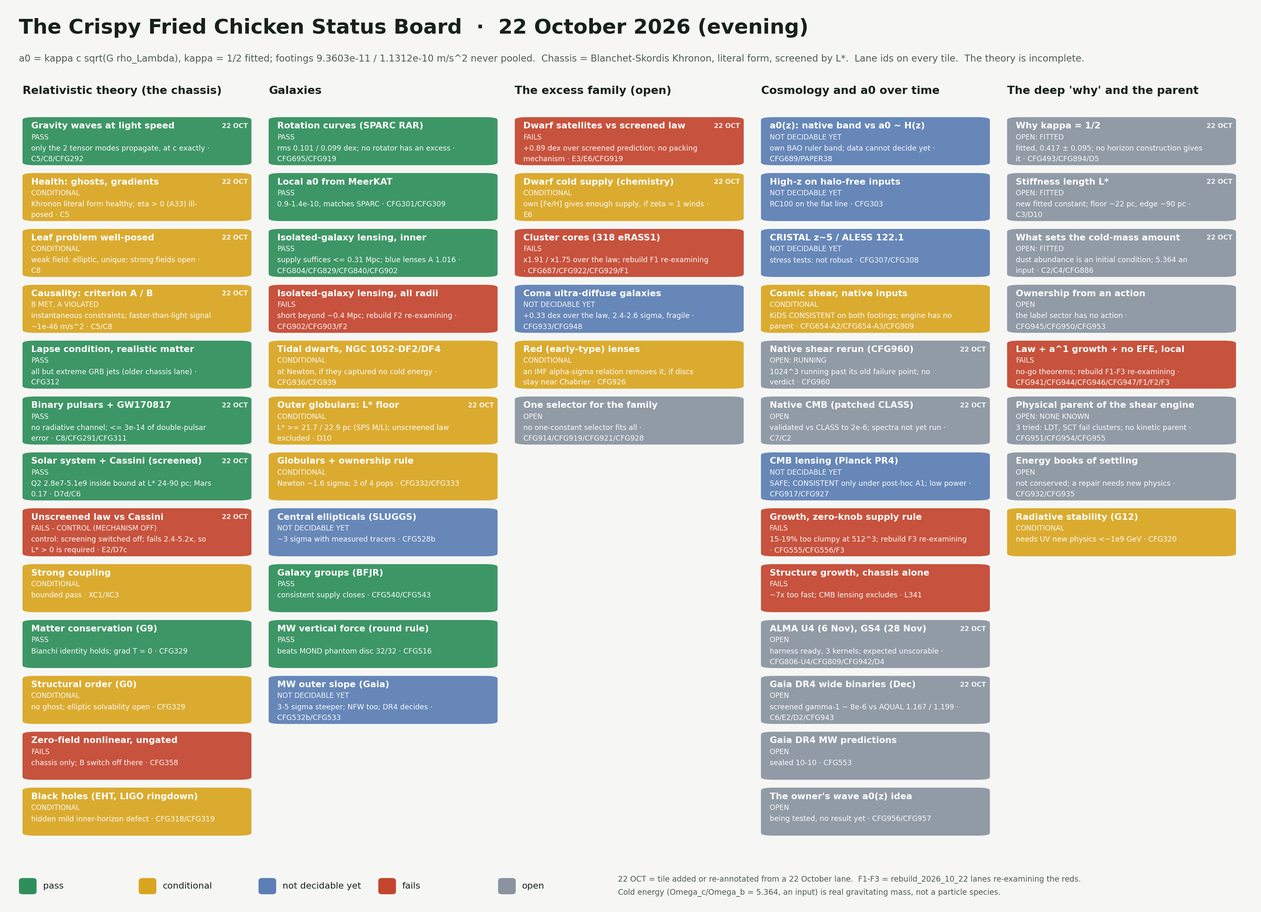
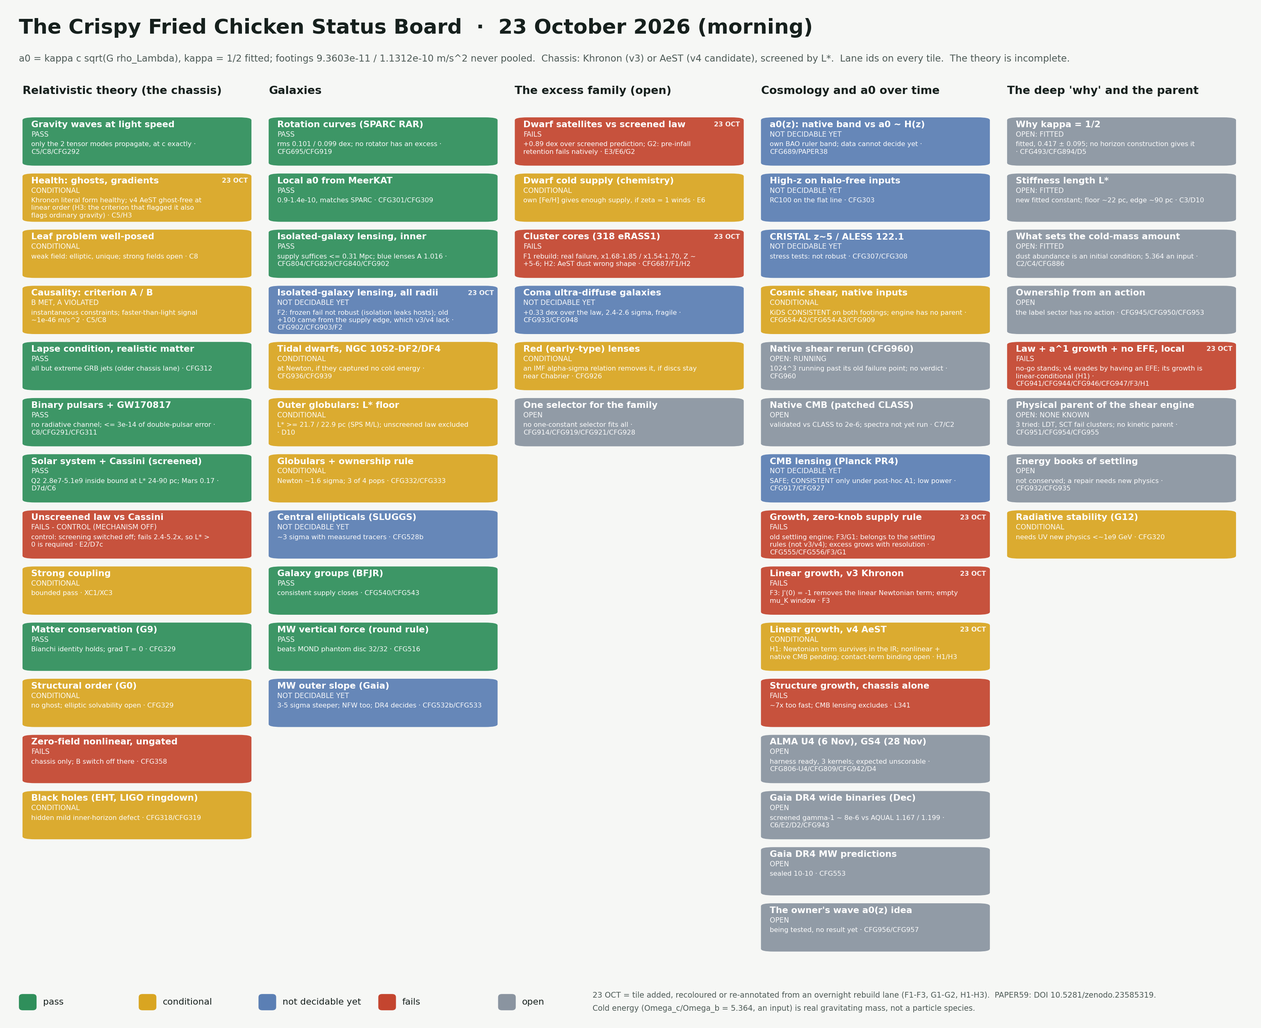
Status board redrawn to 23 October (morning) from the overnight rebuild lanes. One recolour: isolated-galaxy lensing, all radii FAIL -> not decidable yet (F2; generator's kept-red list and new RECOLOURS table record F2 as the evidence). Re-annotated, colour kept: cluster cores red (F1 real failure, 

diff --git a/explainers/make_status_board.py b/explainers/make_status_board.py
@@ -1,14 +1,16 @@
 #!/usr/bin/env python3
-"""The Crispy Fried Chicken status board, 22 October 2026 (evening). Plot only.
+"""The Crispy Fried Chicken status board, 23 October 2026 (morning). Plot only.
 
-Every tile restates a verdict recorded in campaign_fresh_gravity/LEDGER.md, THEORY_CANONICAL_2026-10-18.md, or a
-committed lane of 22 October (doors_push_2026_10_22/, covariant_push_2026_10_22/, summarised in
-covariant_push_2026_10_22/THEORY_V3_DRAFT.md). Layout and colours follow the 21 October board
-(campaign_fresh_gravity/closure_map/status_picture_2026_10_21.py, left unedited).
+Every tile restates a verdict recorded in campaign_fresh_gravity/LEDGER.md, THEORY_CANONICAL_2026-10-18.md, a committed
+lane of 22 October (doors_push_2026_10_22/, covariant_push_2026_10_22/, summarised in
+covariant_push_2026_10_22/THEORY_V3_DRAFT.md), or a committed overnight rebuild lane (rebuild_2026_10_22/: F1, F2, F3,
+G1, G2, H1, H2, H3; the v4 candidate is THEORY_V3_DRAFT.md section 1b). Layout and colours follow the 22 October board
+(kept as explainers/img/status_board_2026-10-22.png).
 
-Re-scoring rule for this board: a tile changes colour only if a committed 22 October lane changes it; nothing turns
-green without a committed lane that passes it; unresolved reds stay red. Each tile records its 21 October colour
-(`prev`, None for a tile new on this board) so the checks below can enforce that rule.
+Re-scoring rule for this board: a tile changes colour only if a committed overnight lane changes it AND the recolour is
+listed in RECOLOURS with that lane as evidence; nothing turns green without a committed lane that passes it; unresolved
+reds stay red. Each tile records its 22 October colour (`prev`, None for a tile new on this board) so the checks below
+can enforce that rule.
 
 kappa = 1/2 is FITTED; footings never pooled; cold energy is real gravitating mass, not a particle species;
 the theory is not closed.
@@ -36,28 +38,29 @@ COL = {"PASS": "#2f8f5b", "COND": "#d9a521", "OPEN": "#8a94a0", "FAIL": "#c4452f
 LAB = {"PASS": "pass", "COND": "conditional", "OPEN": "open", "FAIL": "fails", "UNDEC": "not decidable yet"}
 COLUMNS = ["Relativistic theory (the chassis)", "Galaxies", "The excess family (open)",
            "Cosmology and a0 over time", "The deep 'why' and the parent"]
-# Lane ids committed on 22 October (doors push D*/E*, covariant push C*, CFG960 amendment A6, rebuild brief F*).
-LANE_22 = re.compile(r"^(C[1-8]|D\d+[a-d]?|E[1-6]|CFG960|F[1-4])$")
+# Lane ids committed overnight 22-23 October (rebuild_2026_10_22/).
+LANE_NEW = re.compile(r"^(F[1-3]|G[12]|H[1-3])$")
 
 
-def T(col, name, st, note, lanes, prev, lab=None, new22=False):
-    """One tile: column index, label, colour (status), note, evidence lane ids, 21 October colour."""
-    return dict(col=col, name=name, st=st, note=note, lanes=list(lanes), prev=prev, lab=lab, new22=new22)
+def T(col, name, st, note, lanes, prev, lab=None, new=False):
+    """One tile: column index, label, colour (status), note, evidence lane ids, 22 October colour, 23 OCT flag."""
+    return dict(col=col, name=name, st=st, note=note, lanes=list(lanes), prev=prev, lab=lab, new=new)
 
 
 TILES = [
-    # ---- column 0: the chassis, now the Blanchet-Skordis Khronon theory in its literal form (C4) ----
-    T(0, "Gravity waves at light speed", "PASS", "only the 2 tensor modes propagate, at c exactly", ["C5", "C8", "CFG292"], "PASS", new22=True),
-    T(0, "Health: ghosts, gradients", "COND", "Khronon literal form healthy; eta > 0 (A33) ill-posed", ["C5"], "COND", new22=True),
-    T(0, "Leaf problem well-posed", "COND", "weak field: elliptic, unique; strong fields open", ["C8"], "COND", new22=True),
-    T(0, "Causality: criterion A / B", "COND", "instantaneous constraints; faster-than-light signal ~1e-46 m/s^2", ["C5", "C8"], None,
-      lab="B met, A violated", new22=True),
+    # ---- column 0: the chassis (Khronon v3; AeST v4 candidate, THEORY_V3_DRAFT section 1b) ----
+    T(0, "Gravity waves at light speed", "PASS", "only the 2 tensor modes propagate, at c exactly", ["C5", "C8", "CFG292"], "PASS"),
+    T(0, "Health: ghosts, gradients", "COND",
+      "Khronon literal form healthy; v4 AeST ghost-free at linear order (H3: the criterion that flagged it also flags "
+      "ordinary gravity)", ["C5", "H3"], "COND", new=True),
+    T(0, "Leaf problem well-posed", "COND", "weak field: elliptic, unique; strong fields open", ["C8"], "COND"),
+    T(0, "Causality: criterion A / B", "COND", "instantaneous constraints; faster-than-light signal ~1e-46 m/s^2", ["C5", "C8"],
+      "COND", lab="B met, A violated"),
     T(0, "Lapse condition, realistic matter", "PASS", "all but extreme GRB jets (older chassis lane)", ["CFG312"], "PASS"),
-    T(0, "Binary pulsars + GW170817", "PASS", "no radiative channel; <= 3e-14 of double-pulsar error", ["C8", "CFG291", "CFG311"], "PASS", new22=True),
-    T(0, "Solar system + Cassini (screened)", "PASS", "Q2 2.8e7-5.1e9 inside bound at L* 24-90 pc; Mars 0.17", ["D7d", "C6"], "PASS",
-      new22=True),
+    T(0, "Binary pulsars + GW170817", "PASS", "no radiative channel; <= 3e-14 of double-pulsar error", ["C8", "CFG291", "CFG311"], "PASS"),
+    T(0, "Solar system + Cassini (screened)", "PASS", "Q2 2.8e7-5.1e9 inside bound at L* 24-90 pc; Mars 0.17", ["D7d", "C6"], "PASS"),
     T(0, "Unscreened law vs Cassini", "FAIL", "control: screening switched off; fails 2.4-5.2x, so L* > 0 is required",
-      ["E2", "D7c"], None, lab="fails - control (mechanism off)", new22=True),
+      ["E2", "D7c"], "FAIL", lab="fails - control (mechanism off)"),
     T(0, "Strong coupling", "COND", "bounded pass", ["XC1", "XC3"], "COND"),
     T(0, "Matter conservation (G9)", "PASS", "Bianchi identity holds; grad T = 0", ["CFG329"], "PASS"),
     T(0, "Structural order (G0)", "COND", "no ghost; elliptic solvability open", ["CFG329"], "COND"),
@@ -67,19 +70,23 @@ TILES = [
     T(1, "Rotation curves (SPARC RAR)", "PASS", "rms 0.101 / 0.099 dex; no rotator has an excess", ["CFG695", "CFG919"], "PASS"),
     T(1, "Local a0 from MeerKAT", "PASS", "0.9-1.4e-10, matches SPARC", ["CFG301", "CFG309"], "PASS"),
     T(1, "Isolated-galaxy lensing, inner", "PASS", "supply suffices <= 0.31 Mpc; blue lenses A 1.016", ["CFG804", "CFG829", "CFG840", "CFG902"], "PASS"),
-    T(1, "Isolated-galaxy lensing, all radii", "FAIL", "short beyond ~0.4 Mpc; rebuild F2 re-examining", ["CFG902", "CFG903", "F2"], "FAIL"),
+    T(1, "Isolated-galaxy lensing, all radii", "UNDEC",
+      "F2: frozen fail not robust (isolation leaks hosts); old +100 came from the supply edge, which v3/v4 lack",
+      ["CFG902", "CFG903", "F2"], "FAIL", new=True),
     T(1, "Tidal dwarfs, NGC 1052-DF2/DF4", "COND", "at Newton, if they captured no cold energy", ["CFG936", "CFG939"], "COND"),
-    T(1, "Outer globulars: L* floor", "COND", "L* >= 21.7 / 22.9 pc (SPS M/L); unscreened law excluded", ["D10"], "COND", new22=True),
+    T(1, "Outer globulars: L* floor", "COND", "L* >= 21.7 / 22.9 pc (SPS M/L); unscreened law excluded", ["D10"], "COND"),
     T(1, "Globulars + ownership rule", "COND", "Newton ~1.6 sigma; 3 of 4 pops", ["CFG332", "CFG333"], "COND"),
     T(1, "Central ellipticals (SLUGGS)", "UNDEC", "~3 sigma with measured tracers", ["CFG528b"], "UNDEC"),
     T(1, "Galaxy groups (BFJR)", "PASS", "consistent supply closes", ["CFG540", "CFG543"], "PASS"),
     T(1, "MW vertical force (round rule)", "PASS", "beats MOND phantom disc 32/32", ["CFG516"], "PASS"),
     T(1, "MW outer slope (Gaia)", "UNDEC", "3-5 sigma steeper; NFW too; DR4 decides", ["CFG532b", "CFG533"], "UNDEC"),
     # ---- column 2: the excess family ----
-    T(2, "Dwarf satellites vs screened law", "FAIL", "+0.89 dex over screened prediction; no packing mechanism",
-      ["E3", "E6", "CFG919"], "FAIL", new22=True),
-    T(2, "Dwarf cold supply (chemistry)", "COND", "own [Fe/H] gives enough supply, if zeta = 1 winds", ["E6"], None, new22=True),
-    T(2, "Cluster cores (318 eRASS1)", "FAIL", "x1.91 / x1.75 over the law; rebuild F1 re-examining", ["CFG687", "CFG922", "CFG929", "F1"], "FAIL"),
+    T(2, "Dwarf satellites vs screened law", "FAIL",
+      "+0.89 dex over screened prediction; G2: pre-infall retention fails natively", ["E3", "E6", "G2"], "FAIL", new=True),
+    T(2, "Dwarf cold supply (chemistry)", "COND", "own [Fe/H] gives enough supply, if zeta = 1 winds", ["E6"], "COND"),
+    T(2, "Cluster cores (318 eRASS1)", "FAIL",
+      "F1 rebuild: real failure, x1.68-1.85 / x1.54-1.70, Z ~ +5-6; H2: AeST dust wrong shape", ["CFG687", "F1", "H2"],
+      "FAIL", new=True),
     T(2, "Coma ultra-diffuse galaxies", "UNDEC", "+0.33 dex over the law, 2.4-2.6 sigma, fragile", ["CFG933", "CFG948"], "UNDEC"),
     T(2, "Red (early-type) lenses", "COND", "an IMF alpha-sigma relation removes it, if discs stay near Chabrier",
       ["CFG926"], "COND"),
@@ -90,28 +97,35 @@ TILES = [
     T(3, "CRISTAL z~5 / ALESS 122.1", "UNDEC", "stress tests: not robust", ["CFG307", "CFG308"], "UNDEC"),
     T(3, "Cosmic shear, native inputs", "COND", "KiDS CONSISTENT on both footings; engine has no parent",
       ["CFG654-A2", "CFG654-A3", "CFG909"], "COND"),
-    T(3, "Native shear rerun (CFG960)", "OPEN", "1024^3 running past its old failure point; no verdict", ["CFG960"], None,
-      lab="open: running", new22=True),
-    T(3, "Native CMB (patched CLASS)", "OPEN", "validated vs CLASS to 2e-6; spectra not yet run", ["C7", "C2"], None, new22=True),
+    T(3, "Native shear rerun (CFG960)", "OPEN", "1024^3 running past its old failure point; no verdict", ["CFG960"], "OPEN",
+      lab="open: running"),
+    T(3, "Native CMB (patched CLASS)", "OPEN", "validated vs CLASS to 2e-6; spectra not yet run", ["C7", "C2"], "OPEN"),
     T(3, "CMB lensing (Planck PR4)", "UNDEC", "SAFE; CONSISTENT only under post-hoc A1; low power", ["CFG917", "CFG927"], "UNDEC"),
-    T(3, "Growth, zero-knob supply rule", "FAIL", "15-19% too clumpy at 512^3; rebuild F3 re-examining", ["CFG555", "CFG556", "F3"], "FAIL"),
+    T(3, "Growth, zero-knob supply rule", "FAIL",
+      "old settling engine; F3/G1: belongs to the settling rules (not v3/v4); excess grows with resolution",
+      ["CFG555", "CFG556", "F3", "G1"], "FAIL", new=True),
+    T(3, "Linear growth, v3 Khronon", "FAIL", "F3: J'(0) = -1 removes the linear Newtonian term; empty mu_K window",
+      ["F3"], None, new=True),
+    T(3, "Linear growth, v4 AeST", "COND",
+      "H1: Newtonian term survives in the IR; nonlinear + native CMB pending; contact-term binding open",
+      ["H1", "H3"], None, new=True),
     T(3, "Structure growth, chassis alone", "FAIL", "~7x too fast; CMB lensing excludes", ["L341"], "FAIL"),
     T(3, "ALMA U4 (6 Nov), GS4 (28 Nov)", "OPEN", "harness ready, 3 kernels; expected unscorable", ["CFG806-U4", "CFG809", "CFG942", "D4"],
-      "OPEN", new22=True),
-    T(3, "Gaia DR4 wide binaries (Dec)", "OPEN", "screened gamma-1 ~ 8e-6 vs AQUAL 1.167 / 1.199", ["C6", "E2", "D2", "CFG943"], "OPEN",
-      new22=True),
+      "OPEN"),
+    T(3, "Gaia DR4 wide binaries (Dec)", "OPEN", "screened gamma-1 ~ 8e-6 vs AQUAL 1.167 / 1.199", ["C6", "E2", "D2", "CFG943"], "OPEN"),
     T(3, "Gaia DR4 MW predictions", "OPEN", "sealed 10-10", ["CFG553"], "OPEN"),
     T(3, "The owner's wave a0(z) idea", "OPEN", "being tested, no result yet", ["CFG956", "CFG957"], "OPEN"),
     # ---- column 4: the deep 'why' and the parent ----
     T(4, "Why kappa = 1/2", "OPEN", "fitted, 0.417 ± 0.095; no horizon construction gives it", ["CFG493", "CFG894", "D5"], "OPEN",
-      lab="open: fitted", new22=True),
-    T(4, "Stiffness length L*", "OPEN", "new fitted constant; floor ~22 pc, edge ~90 pc", ["C3", "D10"], None,
-      lab="open: fitted", new22=True),
+      lab="open: fitted"),
+    T(4, "Stiffness length L*", "OPEN", "new fitted constant; floor ~22 pc, edge ~90 pc", ["C3", "D10"], "OPEN",
+      lab="open: fitted"),
     T(4, "What sets the cold-mass amount", "OPEN", "dust abundance is an initial condition; 5.364 an input",
-      ["C2", "C4", "CFG886"], "OPEN", lab="open: fitted", new22=True),
+      ["C2", "C4", "CFG886"], "OPEN", lab="open: fitted"),
     T(4, "Ownership from an action", "OPEN", "the label sector has no action", ["CFG945", "CFG950", "CFG953"], "OPEN"),
-    T(4, "Law + a^1 growth + no EFE, local", "FAIL", "no-go theorems; rebuild F1-F3 re-examining",
-      ["CFG941", "CFG944", "CFG946", "CFG947", "F1", "F2", "F3"], "FAIL"),
+    T(4, "Law + a^1 growth + no EFE, local", "FAIL",
+      "no-go stands; v4 evades by having an EFE; its growth is linear-conditional (H1)",
+      ["CFG941", "CFG944", "CFG946", "CFG947", "F3", "H1"], "FAIL", new=True),
     T(4, "Physical parent of the shear engine", "OPEN", "3 tried: LDT, SCT fail clusters; no kinetic parent",
       ["CFG951", "CFG954", "CFG955"], "OPEN", lab="open: none known"),
     T(4, "Energy books of settling", "OPEN", "not conserved; a repair needs new physics", ["CFG932", "CFG935"], "OPEN"),
@@ -119,9 +133,15 @@ TILES = [
 ]
 
 # Reds that must stay red until a committed rebuild lane says otherwise.
-MUST_STAY_RED = ["Cluster cores (318 eRASS1)", "Isolated-galaxy lensing, all radii", "Growth, zero-knob supply rule",
-                 "Law + a^1 growth + no EFE, local"]
-WRAP = 52  # characters per note line at fontsize 8.4
+# 23 October: "Isolated-galaxy lensing, all radii" was removed from this list because rebuild lane F2
+# (rebuild_2026_10_22/F2_outer_lensing/) found its frozen REAL FAILURE not robust (UNDECIDABLE: the old +100 came from
+# the supply edge, which v3/v4 lack, and the strict isolated sample leaks hosts). It is recoloured to UNDEC via RECOLOURS.
+MUST_STAY_RED = ["Cluster cores (318 eRASS1)", "Growth, zero-knob supply rule", "Law + a^1 growth + no EFE, local",
+                 "Dwarf satellites vs screened law", "Linear growth, v3 Khronon"]
+# Every permitted recolour on this board: tile -> (22 October colour, new colour, evidence lane that justifies it).
+RECOLOURS = {"Isolated-galaxy lensing, all radii": ("FAIL", "UNDEC", "F2")}
+WRAP = 56     # characters per note line at fontsize 7.8
+MAXL = 3      # note lines per tile
 
 
 def lane_text(t):
@@ -136,19 +156,28 @@ def check(tiles):
         if t["st"] not in COL:
             errs.append(f"bad colour {t['st']}: {t['name']}")
         changed = t["prev"] is not None and t["st"] != t["prev"]
-        if changed and not any(LANE_22.match(x) for x in t["lanes"]):
-            errs.append(f"colour changed without a 22 October lane: {t['name']}")
+        if changed:
+            if not any(LANE_NEW.match(x) for x in t["lanes"]):
+                errs.append(f"colour changed without an overnight lane: {t['name']}")
+            rc = RECOLOURS.get(t["name"])
+            if rc is None or rc[:2] != (t["prev"], t["st"]) or rc[2] not in t["lanes"]:
+                errs.append(f"recolour not listed in RECOLOURS with its evidence lane: {t['name']}")
+            if not t["new"]:
+                errs.append(f"recoloured tile not flagged 23 OCT: {t['name']}")
         if t["st"] == "PASS" and t["prev"] != "PASS":
             errs.append(f"turned green: {t['name']} (needs a committed passing lane; refused on this board)")
-        if t["prev"] is None and not t["new22"]:
-            errs.append(f"new tile not flagged as 22 October: {t['name']}")
+        if t["prev"] is None and not t["new"]:
+            errs.append(f"new tile not flagged as 23 October: {t['name']}")
         lines = textwrap.wrap(f"{t['note']} · {lane_text(t)}", WRAP)
-        if len(lines) > 2:
+        if len(lines) > MAXL:
             errs.append(f"note too long ({len(lines)} lines): {t['name']}")
     names = {t["name"]: t for t in tiles}
     for n in MUST_STAY_RED:
         if n not in names or names[n]["st"] != "FAIL":
             errs.append(f"must stay red: {n}")
+    for n in RECOLOURS:
+        if n not in names or names[n]["st"] != RECOLOURS[n][1]:
+            errs.append(f"listed recolour not applied: {n}")
     if len(names) != len(tiles):
         errs.append("duplicate tile names")
     return errs
@@ -157,16 +186,16 @@ def check(tiles):
 def draw(tiles, out):
     ncol = len(COLUMNS)
     nmax = max(sum(1 for t in tiles if t["col"] == c) for c in range(ncol))
-    W, H = 20.5, 2.6 + 0.94 * nmax                   # inches; each tile ~0.94 in tall as on the 21 October board
+    W, H = 20.5, 2.6 + 0.94 * nmax                   # inches; each tile ~0.94 in tall as on the 22 October board
     fig = plt.figure(figsize=(W, H), dpi=150)
     fig.patch.set_facecolor("#f6f7f5")
     top_in, bot_in = 1.25, 0.95                      # header and legend bands, inches
     ax = fig.add_axes([0.012, bot_in / H, 0.976, 1 - (top_in + bot_in) / H])
     ax.set_xlim(0, ncol); ax.set_ylim(-0.25, nmax + 0.65); ax.axis("off")
-    fig.text(0.015, 1 - 0.55 / H, "The Crispy Fried Chicken Status Board  ·  22 October 2026 (evening)", fontsize=24,
+    fig.text(0.015, 1 - 0.55 / H, "The Crispy Fried Chicken Status Board  ·  23 October 2026 (morning)", fontsize=24,
              fontweight="bold", color="#16201d")
     fig.text(0.015, 1 - 1.0 / H, "a0 = kappa c sqrt(G rho_Lambda), kappa = 1/2 fitted; footings 9.3603e-11 / 1.1312e-10 m/s^2 never "
-             "pooled.  Chassis = Blanchet-Skordis Khronon, literal form, screened by L*.  Lane ids on every tile.  "
+             "pooled.  Chassis: Khronon (v3) or AeST (v4 candidate), screened by L*.  Lane ids on every tile.  "
              "The theory is incomplete.", fontsize=11.0, color="#4d5a56")
     for c, title in enumerate(COLUMNS):
         ax.text(c + 0.03, nmax + 0.4, title, fontsize=13, fontweight="bold", color="#16201d", va="center")
@@ -174,14 +203,14 @@ def draw(tiles, out):
             y = nmax - 0.5 - k
             ax.add_patch(FancyBboxPatch((c + 0.03, y - 0.43), 0.93, 0.86, boxstyle="round,pad=0.0,rounding_size=0.05",
                                         facecolor=COL[t["st"]], edgecolor="none", alpha=0.93))
-            ax.text(c + 0.065, y + 0.27, t["name"], fontsize=10.4, fontweight="bold", color="white", va="center")
+            ax.text(c + 0.065, y + 0.30, t["name"], fontsize=10.4, fontweight="bold", color="white", va="center")
             lab = (t["lab"] or LAB[t["st"]]).upper()
-            ax.text(c + 0.065, y + 0.07, lab, fontsize=8.2, color="white", va="center", alpha=0.95)
-            if t["new22"]:
-                ax.text(c + 0.945, y + 0.27, "22 OCT", fontsize=7.6, fontweight="bold", color="white", va="center",
+            ax.text(c + 0.065, y + 0.125, lab, fontsize=8.2, color="white", va="center", alpha=0.95)
+            if t["new"]:
+                ax.text(c + 0.945, y + 0.30, "23 OCT", fontsize=7.6, fontweight="bold", color="white", va="center",
                         ha="right", alpha=0.9)
             for j, ln in enumerate(textwrap.wrap(f"{t['note']} · {lane_text(t)}", WRAP)):
-                ax.text(c + 0.065, y - 0.13 - 0.19 * j, ln, fontsize=8.4, color="white", va="center", alpha=0.97)
+                ax.text(c + 0.065, y - 0.05 - 0.135 * j, ln, fontsize=7.8, color="white", va="center", alpha=0.97)
     lx, ly = 0.015, 0.42 / H
     for st in ("PASS", "COND", "UNDEC", "FAIL", "OPEN"):
         fig.patches.append(FancyBboxPatch((lx, ly - 0.01 * 13.2 / H), 0.014, 0.02 * 13.2 / H,
@@ -189,9 +218,10 @@ def draw(tiles, out):
                                           transform=fig.transFigure, figure=fig))
         fig.text(lx + 0.019, ly, LAB[st], fontsize=10.5, va="center", color="#16201d")
         lx += 0.095
-    fig.text(0.49, ly + 0.11 / H, "22 OCT = tile added or re-annotated from a 22 October lane.  F1-F3 = rebuild_2026_10_22 "
-             "lanes re-examining the reds.", fontsize=9.0, va="center", color="#4d5a56")
-    fig.text(0.49, ly - 0.11 / H, "Cold energy (Omega_c/Omega_b = 5.364, an input) is real gravitating mass, not a particle species.",
+    fig.text(0.47, ly + 0.11 / H, "23 OCT = tile added, recoloured or re-annotated from an overnight rebuild lane "
+             "(F1-F3, G1-G2, H1-H3).  PAPER59: DOI 10.5281/zenodo.23585319.", fontsize=9.0,
+             va="center", color="#4d5a56")
+    fig.text(0.47, ly - 0.11 / H, "Cold energy (Omega_c/Omega_b = 5.364, an input) is real gravitating mass, not a particle species.",
              fontsize=9.0, va="center", color="#4d5a56")
     fig.savefig(out, dpi=150, facecolor=fig.get_facecolor())
     plt.close(fig)
@@ -203,8 +233,8 @@ def main():
     if mutate:
         tiles[7]["lanes"] = []                       # strip one tile's evidence lane: the checks must fail
     errs = check(tiles)
-    print(f"{len(tiles)} tiles; {sum(t['new22'] for t in tiles)} from 22 October lanes; "
-          f"{sum(1 for t in tiles if t['prev'] is not None and t['st'] != t['prev'])} recoloured vs 21 October")
+    print(f"{len(tiles)} tiles; {sum(t['new'] for t in tiles)} added or re-annotated from overnight lanes; "
+          f"{sum(1 for t in tiles if t['prev'] is not None and t['st'] != t['prev'])} recoloured vs 22 October")
     if errs:
         for e in errs:
             print("CHECK FAIL:", e)

diff --git a/explainers/crispy_fried_chicken_status_board.md b/explainers/crispy_fried_chicken_status_board.md
@@ -1,6 +1,6 @@
 # The Crispy Fried Chicken Status Board
 
-*Where the theory stands, as of 22 October 2026 (evening). The theory is not complete. The tile picture below shows the 22 October evening state; the 21 October picture is kept as [`img/status_board_2026-10-21.png`](img/status_board_2026-10-21.png).*
+*Where the theory stands, as of 23 October 2026 (morning). The theory is not complete. The tile picture below shows the 23 October morning state; earlier pictures are kept as [`img/status_board_2026-10-22.png`](img/status_board_2026-10-22.png) (22 October evening) and [`img/status_board_2026-10-21.png`](img/status_board_2026-10-21.png).*
 
 The theory makes one claim: the acceleration scale where galaxies stop obeying Newton, a₀, is set by the density of dark energy.
 
@@ -14,7 +14,7 @@ The ½ is **fitted**, not derived; the current measurement is κ = 0.417 ± 0.09
 
 ## How to read it
 
-The picture is the 22 October evening state, drawn by [`make_status_board.py`](make_status_board.py); tiles marked **22 OCT** were added or re-annotated from a 22 October lane (listed in the next section). Each tile is one test. The colour restates a verdict recorded in the campaign LEDGER ([`campaign_fresh_gravity/LEDGER.md`](../campaign_fresh_gravity/LEDGER.md)) or in the dated notes of [`THEORY_CANONICAL_2026-10-18.md`](../campaign_fresh_gravity/THEORY_CANONICAL_2026-10-18.md), and the lane IDs on each tile point to the scripts that produced it. Verdicts come from committed scripts with pass/fail rules frozen *before* the data were read, plus a control that is deliberately broken and must fail. Where a colour depends on a rule added afterwards (post hoc), the tile says so.
+The picture is the 23 October morning state, drawn by [`make_status_board.py`](make_status_board.py); tiles marked **23 OCT** were added, recoloured or re-annotated from an overnight rebuild lane (listed in the next section). The generator refuses any green, and any recolour not listed with its evidence lane. Each tile is one test. The colour restates a verdict recorded in the campaign LEDGER ([`campaign_fresh_gravity/LEDGER.md`](../campaign_fresh_gravity/LEDGER.md)) or in the dated notes of [`THEORY_CANONICAL_2026-10-18.md`](../campaign_fresh_gravity/THEORY_CANONICAL_2026-10-18.md), and the lane IDs on each tile point to the scripts that produced it. Verdicts come from committed scripts with pass/fail rules frozen *before* the data were read, plus a control that is deliberately broken and must fail. Where a colour depends on a rule added afterwards (post hoc), the tile says so.
 
 | colour | meaning |
 |---|---|
@@ -23,6 +23,19 @@ The picture is the 22 October evening state, drawn by [`make_status_board.py`](m
 | 🟦 **not decidable yet** | today's data cannot tell the theory from its rival |
 | 🟥 **fails** | the theory misses the test, and audits from the raw data confirm the miss |
 | ⬜ **open** | not yet answered, or waiting on data |
+
+## What changed overnight (23 October)
+
+Every item is a committed lane in [`rebuild_2026_10_22/`](../rebuild_2026_10_22/BRIEF.md). The v4 candidate (AeST plus the same stiffness term and the exact-law free function) is §1b of [`THEORY_V3_DRAFT.md`](../covariant_push_2026_10_22/THEORY_V3_DRAFT.md). PAPER59 (the covariant theory) is published: DOI [10.5281/zenodo.23585319](https://doi.org/10.5281/zenodo.23585319). One tile changed colour; nothing turned green.
+
+- **Cluster cores stay 🟥, now a real failure.** Rebuilt from the raw eRASS1 × KiDS data, the core excess is 1.68–1.85× (canonical) / 1.54–1.70× (alt) over the law, Z ≈ +5–6 (F1). AeST's own dust has the wrong radial shape to supply it (H2).
+- **Isolated-galaxy lensing, all radii: 🟥 → 🟦 not decidable yet** (F2). The frozen failure is not robust: the strict "isolated" sample still leaks satellites' hosts, and the old Δχ² of +100 came from the supply edge, which v3 and v4 do not have.
+- **Growth under the zero-knob supply rule stays 🟥** for the old settling engine. The excess belongs to the settling rules, not to v3 or v4 (F3), and it grows with grid resolution (G1).
+- **New tile: linear growth, v3 Khronon 🟥.** J′(0) = −1 removes the linear Newtonian term, and the window for the K(Q) mass is empty (F3).
+- **New tile: linear growth, v4 AeST 🟨.** The Newtonian term survives on large scales for any free function (H1). Pending: nonlinear behaviour and the native CMB. Open: the contact-term binding between about 1 Mpc and 4 kpc (H3).
+- **Health stays 🟨.** v4 is ghost-free at linear order; the criterion that flagged it also flags ordinary self-gravitating dust (H3).
+- **Dwarf satellites stay 🟥.** Pre-infall retention fails on native inputs; it closes only with a ΛCDM-processed subhalo mass put in by hand (G2).
+- **"Law + a¹ growth + no external-field effect" stays 🟥**: the no-go stands. v4 evades it by having an external-field effect, and its growth is conditional at linear order (H1).
 
 ## What changed since 21 October (doors push, audit wave, covariant push; 22 October)
 
